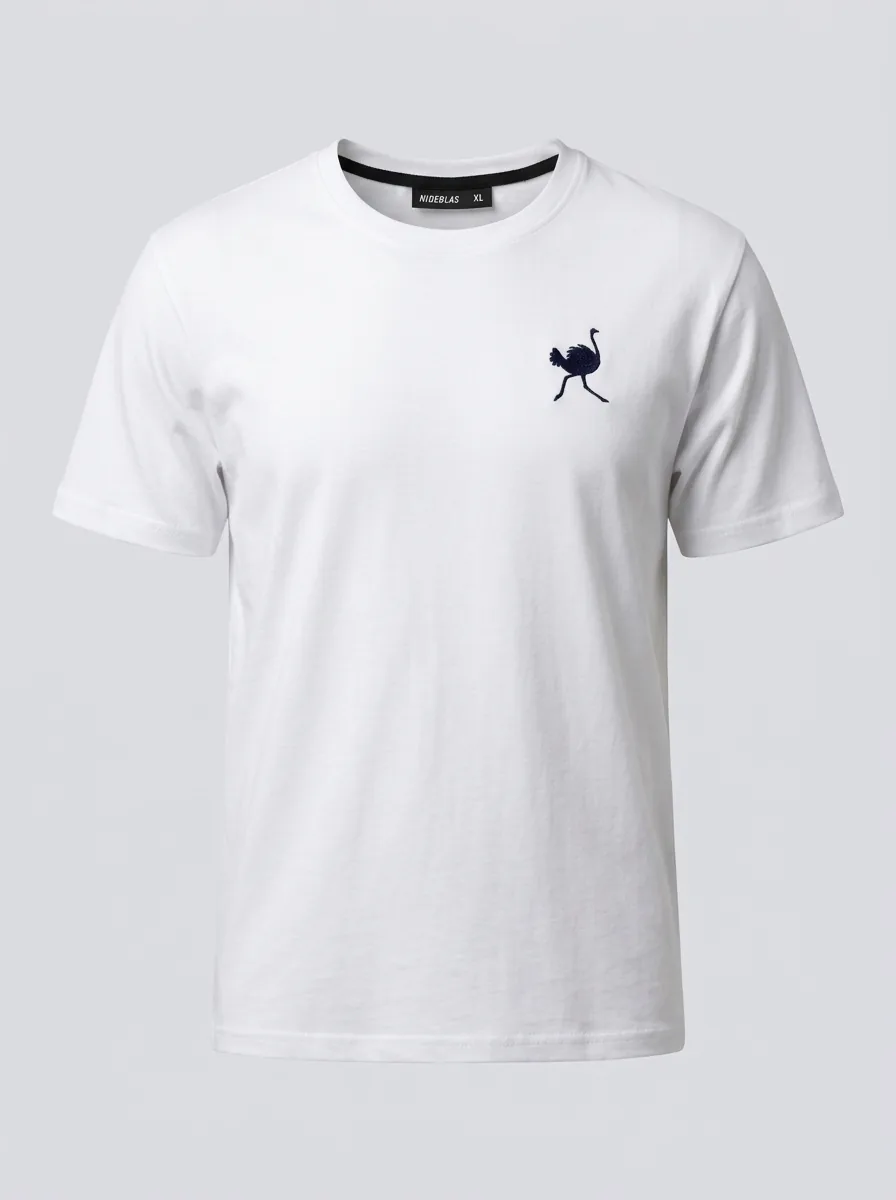
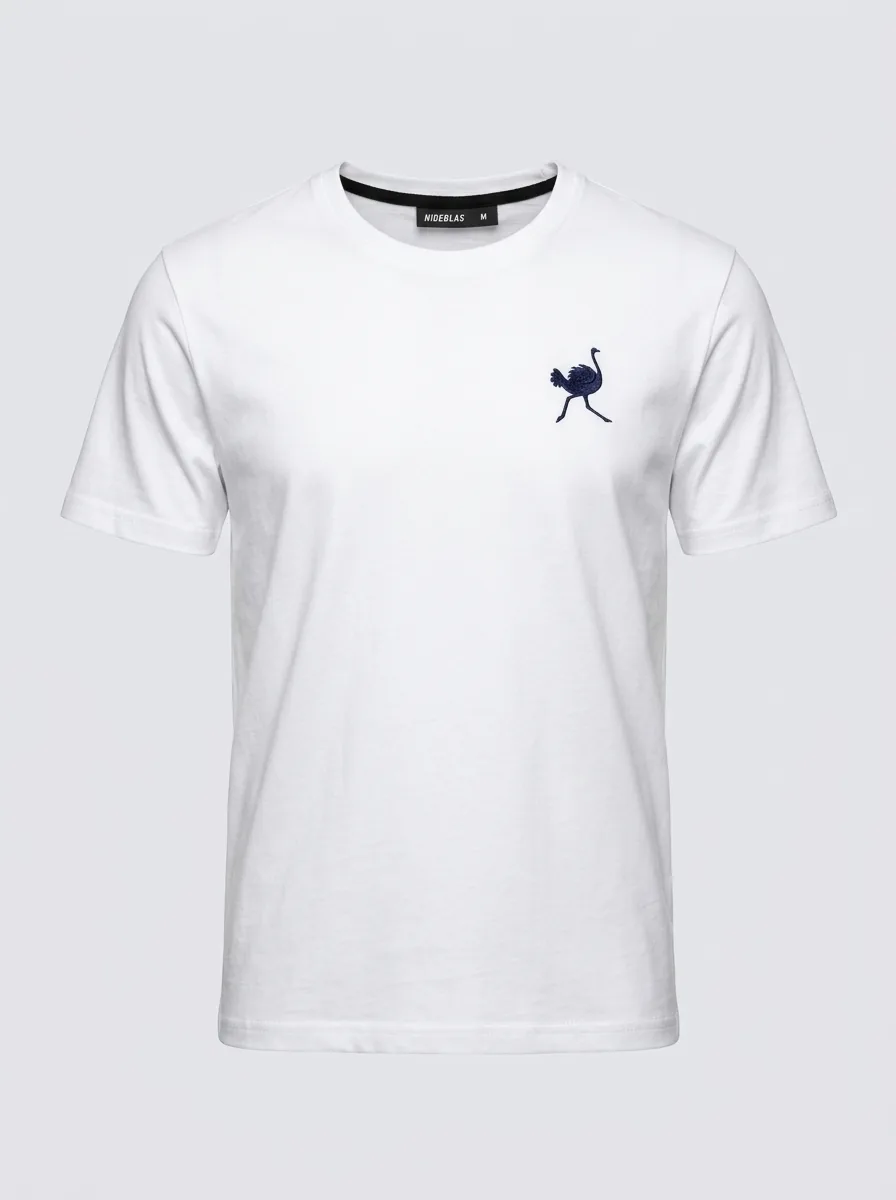
Regenerate TS-06 white tee in size M
New set with M label and measurements, whiter logo macro, more top margin.
Update recipe and procedure with lessons learned.

diff --git a/NDB_KIT_MAESTRO.md b/NDB_KIT_MAESTRO.md
@@ -448,7 +448,7 @@ Resultado aprobado por el equipo. Repetir este método para el resto de prendas.
 4. Usar la **URL del frontal aprobado** como referencia 1 en el resto de vistas (mantiene prenda, luz y fondo).
 5. Revisar con el checklist QA del playbook y entregar según la regla de entrega.
 
-> **Talla M obligatoria.** Añadir a cada prompt las medidas M del SKU y que la etiqueta de cuello diga `NIDEBLAS M`. En el piloto TS-06 la etiqueta salió con `XL` porque la foto de referencia era XL: hay que corregirlo en el prompt (`label reads M`) y regenerar.
+> **Talla M obligatoria.** Añadir a cada prompt las medidas M del SKU y que la etiqueta de cuello diga `NIDEBLAS M`. En el piloto TS-06 la etiqueta salió con `XL` porque la foto de referencia era XL: corregido en la regeneración con `neck label reads M (not XL)` en frontal, flatlay y detalle de cuello.
 
 ## Prompts por vista (sustituir [PRENDA] y color del hilo)
 - **Frontal:** `Professional e-commerce studio product photo, front view, of the [PRENDA] from the reference photos, on an invisible ghost mannequin, centered, full garment with margin. [descripción del prompt-ficha]. Soft diffused studio lighting, gentle natural shadow, seamless light-gray background (#E9E9EC), crisp seams, fine fabric weave, true-to-life color, 85mm. Reference 1: full garment; reference 2: embroidery macro; reference 3: neck label and tape. No text, extra graphics, pockets or other logos. Do not change or mirror the logo.`
@@ -459,6 +459,8 @@ Resultado aprobado por el equipo. Repetir este método para el resto de prendas.
 - **Detalle cuello (4:5):** `Close-up of the neckline: ribbed crew collar, black woven neck label with white italic condensed "NIDEBLAS" and size, black neck tape along the inner edge. Soft diffused light, clean light-gray background.`
 
 ## Qué vigilar (aprendido en el piloto)
+- **Macro del logo en tejido blanco:** pedir `PURE WHITE ... not cream or beige`, o sale sobre crema.
+- **Etiqueta:** si la referencia muestra otra talla, indicar explícitamente `ignore the size letter in the photo; use M`.
 - El **logo** sale algo más detallado que el real: validar siempre contra el logo vector.
 - La **trasera y el lateral** los inventa el modelo si no hay foto real; seguros en prendas con espalda lisa.
 - El **fondo del flatlay** tiende a salir más oscuro: pedir `#E9E9EC` y revisar.

diff --git a/ndb-garments/references/studio-shots-recipe.md b/ndb-garments/references/studio-shots-recipe.md
@@ -14,7 +14,7 @@ Resultado aprobado por el equipo. Repetir este método para el resto de prendas.
 4. Usar la **URL del frontal aprobado** como referencia 1 en el resto de vistas (mantiene prenda, luz y fondo).
 5. Revisar con el checklist QA del playbook y entregar según la regla de entrega.
 
-> **Talla M obligatoria.** Añadir a cada prompt las medidas M del SKU y que la etiqueta de cuello diga `NIDEBLAS M`. En el piloto TS-06 la etiqueta salió con `XL` porque la foto de referencia era XL: hay que corregirlo en el prompt (`label reads M`) y regenerar.
+> **Talla M obligatoria.** Añadir a cada prompt las medidas M del SKU y que la etiqueta de cuello diga `NIDEBLAS M`. En el piloto TS-06 la etiqueta salió con `XL` porque la foto de referencia era XL: corregido en la regeneración con `neck label reads M (not XL)` en frontal, flatlay y detalle de cuello.
 
 ## Prompts por vista (sustituir [PRENDA] y color del hilo)
 - **Frontal:** `Professional e-commerce studio product photo, front view, of the [PRENDA] from the reference photos, on an invisible ghost mannequin, centered, full garment with margin. [descripción del prompt-ficha]. Soft diffused studio lighting, gentle natural shadow, seamless light-gray background (#E9E9EC), crisp seams, fine fabric weave, true-to-life color, 85mm. Reference 1: full garment; reference 2: embroidery macro; reference 3: neck label and tape. No text, extra graphics, pockets or other logos. Do not change or mirror the logo.`
@@ -25,6 +25,8 @@ Resultado aprobado por el equipo. Repetir este método para el resto de prendas.
 - **Detalle cuello (4:5):** `Close-up of the neckline: ribbed crew collar, black woven neck label with white italic condensed "NIDEBLAS" and size, black neck tape along the inner edge. Soft diffused light, clean light-gray background.`
 
 ## Qué vigilar (aprendido en el piloto)
+- **Macro del logo en tejido blanco:** pedir `PURE WHITE ... not cream or beige`, o sale sobre crema.
+- **Etiqueta:** si la referencia muestra otra talla, indicar explícitamente `ignore the size letter in the photo; use M`.
 - El **logo** sale algo más detallado que el real: validar siempre contra el logo vector.
 - La **trasera y el lateral** los inventa el modelo si no hay foto real; seguros en prendas con espalda lisa.
 - El **fondo del flatlay** tiende a salir más oscuro: pedir `#E9E9EC` y revisar.

diff --git a/PROCEDIMIENTO.md b/PROCEDIMIENTO.md
@@ -130,7 +130,8 @@ Si el trabajo revela un dato nuevo (color real, medida, etiqueta, error), edíta
 | Problema | Solución |
 |---|---|
 | El logo sale más detallado o con otra silueta | Añadir referencia del macro real; repetir con prompt corto sobre el logo |
-| Etiqueta con talla distinta de M | Añadir `neck label reads "NIDEBLAS M"` y regenerar |
+| Etiqueta con talla distinta de M | Añadir `neck label reads "NIDEBLAS M"` y `ignore the size letter in the photo`; regenerar |
+| Macro del logo sale sobre tela crema | Pedir `PURE WHITE ... not cream or beige` |
 | Espalda o lateral inventados | Seguro solo en prendas con espalda lisa; en SW-04 y TS-10 usar referencia propia |
 | Fondo del flatlay más oscuro | Forzar `#E9E9EC` y luz difusa |
 | Imagen recortada por arriba | Pedir margen generoso alrededor de la prenda |
@@ -139,5 +140,5 @@ Si el trabajo revela un dato nuevo (color real, medida, etiqueta, error), edíta
 
 ## Pendientes conocidos
 - Validar el logo contra el vectorial oficial.
-- Regenerar la camiseta blanca TS-06 en talla M (la serie actual muestra `XL` en la etiqueta).
 - Fotos con persona y de espalda para mejorar el realismo del fit (ver `open-questions.md`).
+- Subir las imágenes a 2K antes de publicar.
